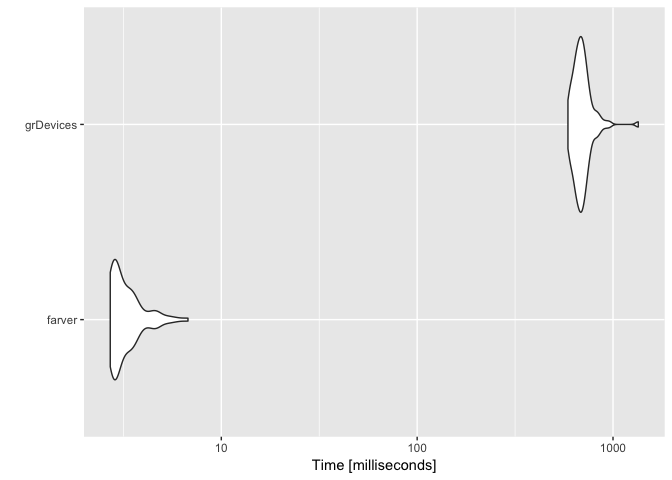
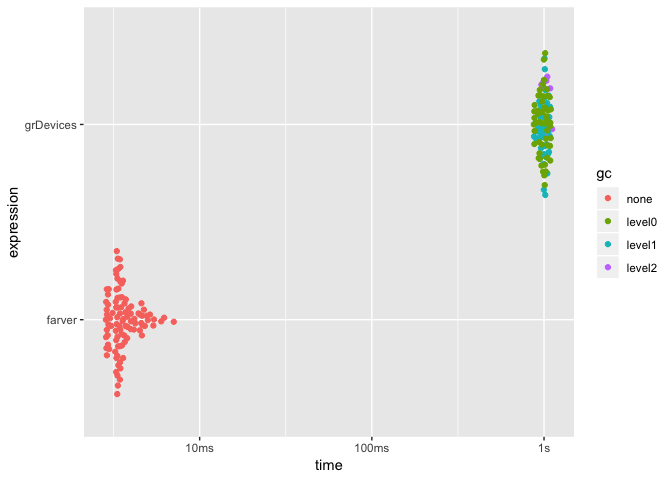
Rewrite comparison to follow Romain's rewrite of conversion

diff --git a/src/rcpp_colorspace.cpp b/src/rcpp_colorspace.cpp
@@ -1,5 +1,6 @@
 #include <Rcpp.h>
 #include "ColorSpace.h"
+#include "Comparison.h"
 #include <memory>
 
 using namespace Rcpp;
@@ -213,4 +214,94 @@ NumericMatrix convert_dispatch_from( const NumericMatrix& colour, int from, int 
 //[[Rcpp::export]]
 NumericMatrix convert_c(NumericMatrix colour, int from, int to) {
   return convert_dispatch_from(colour, from, to) ;
+}
+
+#define EUCLIDEAN 1
+#define CIE1976 2
+#define CIE94 3
+#define CIE2000 4
+#define CMC 5
+
+double get_colour_dist(ColorSpace::Rgb& from, ColorSpace::Rgb& to, int dist) {
+  switch(dist){
+  case EUCLIDEAN: return ColorSpace::EuclideanComparison::Compare(&from, &to);
+  case CIE1976: return ColorSpace::Cie1976Comparison::Compare(&from, &to);
+  case CIE94: return ColorSpace::Cie94Comparison::Compare(&from, &to);
+  case CIE2000: return ColorSpace::Cie2000Comparison::Compare(&from, &to);
+  case CMC: return ColorSpace::CmcComparison::Compare(&from, &to);
+  }
+  // Never happens
+  return 0.0;
+}
+
+template <typename Space_From, typename Space_To>
+NumericMatrix compare_dispatch_impl(const NumericMatrix& from, const NumericMatrix& to, int dist, bool sym){
+  
+  // check that the dimensions of the input match the colour space
+  if( dimension<Space_From>() != from.ncol() ){
+    stop("colourspace requires %d values", dimension<Space_From>() ) ;    
+  }
+  if( dimension<Space_To>() != to.ncol() ){
+    stop("colourspace requires %d values", dimension<Space_From>() ) ;    
+  }
+  int n = from.nrow(), m = to.nrow(), i, j;
+  NumericMatrix out(n, m);
+  
+  ColorSpace::Rgb from_rgb, to_rgb;
+  
+  for (i = 0; i < n; ++i) {
+    fill_rgb<Space_From>(from(i, _), &from_rgb);
+    for (j = sym ? i + 1 : 0; j < m; ++j) {
+      fill_rgb<Space_To>(to(j, _), &to_rgb);
+      out(i, j) = get_colour_dist(from_rgb, to_rgb, dist);
+    }
+  }
+  
+  return out ;
+}
+
+template <typename From>
+NumericMatrix compare_dispatch_to(const NumericMatrix& from, const NumericMatrix& to, int to_space, int dist, bool sym) {
+  switch(to_space){
+    case CMY: return compare_dispatch_impl<From, ColorSpace::Cmy>(from, to, dist, sym) ; 
+    case CMYK: return compare_dispatch_impl<From, ColorSpace::Cmyk>(from, to, dist, sym) ; 
+    case HSL: return compare_dispatch_impl<From, ColorSpace::Hsl>(from, to, dist, sym) ; 
+    case HSB: return compare_dispatch_impl<From, ColorSpace::Hsb>(from, to, dist, sym) ; 
+    case HSV: return compare_dispatch_impl<From, ColorSpace::Hsv>(from, to, dist, sym) ; 
+    case LAB: return compare_dispatch_impl<From, ColorSpace::Lab>(from, to, dist, sym) ; 
+    case HUNTERLAB: return compare_dispatch_impl<From, ColorSpace::HunterLab>(from, to, dist, sym) ; 
+    case LCH: return compare_dispatch_impl<From, ColorSpace::Lch>(from, to, dist, sym) ; 
+    case LUV: return compare_dispatch_impl<From, ColorSpace::Luv>(from, to, dist, sym) ; 
+    case RGB: return compare_dispatch_impl<From, ColorSpace::Rgb>(from, to, dist, sym) ; 
+    case XYZ: return compare_dispatch_impl<From, ColorSpace::Xyz>(from, to, dist, sym) ; 
+    case YXY: return compare_dispatch_impl<From, ColorSpace::Yxy>(from, to, dist, sym) ; 
+  }
+  
+  // never happens
+  return from ;
+}
+
+NumericMatrix compare_dispatch_from(const NumericMatrix& from, const NumericMatrix& to, int from_space, int to_space, int dist, bool sym) {
+  switch(from_space){
+    case CMY: return compare_dispatch_to<ColorSpace::Cmy>(from, to, to_space, dist, sym) ; 
+    case CMYK: return compare_dispatch_to<ColorSpace::Cmyk>(from, to, to_space, dist, sym) ; 
+    case HSL: return compare_dispatch_to<ColorSpace::Hsl>(from, to, to_space, dist, sym) ; 
+    case HSB: return compare_dispatch_to<ColorSpace::Hsb>(from, to, to_space, dist, sym) ; 
+    case HSV: return compare_dispatch_to<ColorSpace::Hsv>(from, to, to_space, dist, sym) ; 
+    case LAB: return compare_dispatch_to<ColorSpace::Lab>(from, to, to_space, dist, sym) ; 
+    case HUNTERLAB: return compare_dispatch_to<ColorSpace::HunterLab>(from, to, to_space, dist, sym) ; 
+    case LCH: return compare_dispatch_to<ColorSpace::Lch>(from, to, to_space, dist, sym) ; 
+    case LUV: return compare_dispatch_to<ColorSpace::Luv>(from, to, to_space, dist, sym) ; 
+    case RGB: return compare_dispatch_to<ColorSpace::Rgb>(from, to, to_space, dist, sym) ; 
+    case XYZ: return compare_dispatch_to<ColorSpace::Xyz>(from, to, to_space, dist, sym) ; 
+    case YXY: return compare_dispatch_to<ColorSpace::Yxy>(from, to, to_space, dist, sym) ; 
+  }
+  
+  // never happens so we just return the input to quiet the compiler
+  return from ;
+}
+
+//[[Rcpp::export]]
+NumericMatrix compare_c(NumericMatrix from, NumericMatrix to, int from_space, int to_space, int dist, bool sym) {
+  return compare_dispatch_from(from, to, from_space, to_space, dist, sym);
 }

diff --git a/src/RcppExports.cpp b/src/RcppExports.cpp
@@ -5,22 +5,6 @@
 
 using namespace Rcpp;
 
-// compare_c
-NumericMatrix compare_c(NumericMatrix from, NumericMatrix to, std::string from_space, std::string to_space, std::string dist, bool sym);
-RcppExport SEXP _farver_compare_c(SEXP fromSEXP, SEXP toSEXP, SEXP from_spaceSEXP, SEXP to_spaceSEXP, SEXP distSEXP, SEXP symSEXP) {
-BEGIN_RCPP
-    Rcpp::RObject rcpp_result_gen;
-    Rcpp::RNGScope rcpp_rngScope_gen;
-    Rcpp::traits::input_parameter< NumericMatrix >::type from(fromSEXP);
-    Rcpp::traits::input_parameter< NumericMatrix >::type to(toSEXP);
-    Rcpp::traits::input_parameter< std::string >::type from_space(from_spaceSEXP);
-    Rcpp::traits::input_parameter< std::string >::type to_space(to_spaceSEXP);
-    Rcpp::traits::input_parameter< std::string >::type dist(distSEXP);
-    Rcpp::traits::input_parameter< bool >::type sym(symSEXP);
-    rcpp_result_gen = Rcpp::wrap(compare_c(from, to, from_space, to_space, dist, sym));
-    return rcpp_result_gen;
-END_RCPP
-}
 // convert_c
 NumericMatrix convert_c(NumericMatrix colour, int from, int to);
 RcppExport SEXP _farver_convert_c(SEXP colourSEXP, SEXP fromSEXP, SEXP toSEXP) {
@@ -34,10 +18,26 @@ BEGIN_RCPP
     return rcpp_result_gen;
 END_RCPP
 }
+// compare_c
+NumericMatrix compare_c(NumericMatrix from, NumericMatrix to, int from_space, int to_space, int dist, bool sym);
+RcppExport SEXP _farver_compare_c(SEXP fromSEXP, SEXP toSEXP, SEXP from_spaceSEXP, SEXP to_spaceSEXP, SEXP distSEXP, SEXP symSEXP) {
+BEGIN_RCPP
+    Rcpp::RObject rcpp_result_gen;
+    Rcpp::RNGScope rcpp_rngScope_gen;
+    Rcpp::traits::input_parameter< NumericMatrix >::type from(fromSEXP);
+    Rcpp::traits::input_parameter< NumericMatrix >::type to(toSEXP);
+    Rcpp::traits::input_parameter< int >::type from_space(from_spaceSEXP);
+    Rcpp::traits::input_parameter< int >::type to_space(to_spaceSEXP);
+    Rcpp::traits::input_parameter< int >::type dist(distSEXP);
+    Rcpp::traits::input_parameter< bool >::type sym(symSEXP);
+    rcpp_result_gen = Rcpp::wrap(compare_c(from, to, from_space, to_space, dist, sym));
+    return rcpp_result_gen;
+END_RCPP
+}
 
 static const R_CallMethodDef CallEntries[] = {
-    {"_farver_compare_c", (DL_FUNC) &_farver_compare_c, 6},
     {"_farver_convert_c", (DL_FUNC) &_farver_convert_c, 3},
+    {"_farver_compare_c", (DL_FUNC) &_farver_compare_c, 6},
     {NULL, NULL, 0}
 };
 

diff --git a/README.md b/README.md
@@ -88,6 +88,17 @@ Supported colour spaces
 -   XYZ
 -   YXY
 
+Supported distance measures
+---------------------------
+
+`farver` supports the following colour distance metrics
+
+-   Euclidean
+-   CIE1976
+-   CIE94
+-   CIE2000
+-   CMC
+
 Benchmark
 ---------
 
@@ -95,11 +106,13 @@ Benchmark
 
 ``` r
 library(ggplot2)
-library(microbenchmark)
 test <- matrix(runif(30000, min = 0, max = 255), ncol = 3)
-timing <- microbenchmark(
+timing <- bench::mark(
   farver = convert_colour(test, 'rgb', 'lab'),
-  grDevices = convertColor(test, 'sRGB', 'Lab', scale.in = 255)
+  grDevices = convertColor(test, 'sRGB', 'Lab', scale.in = 255), 
+  check = FALSE,
+  iterations = 100,
+  filter_gc = FALSE
 )
 autoplot(timing)
 ```
